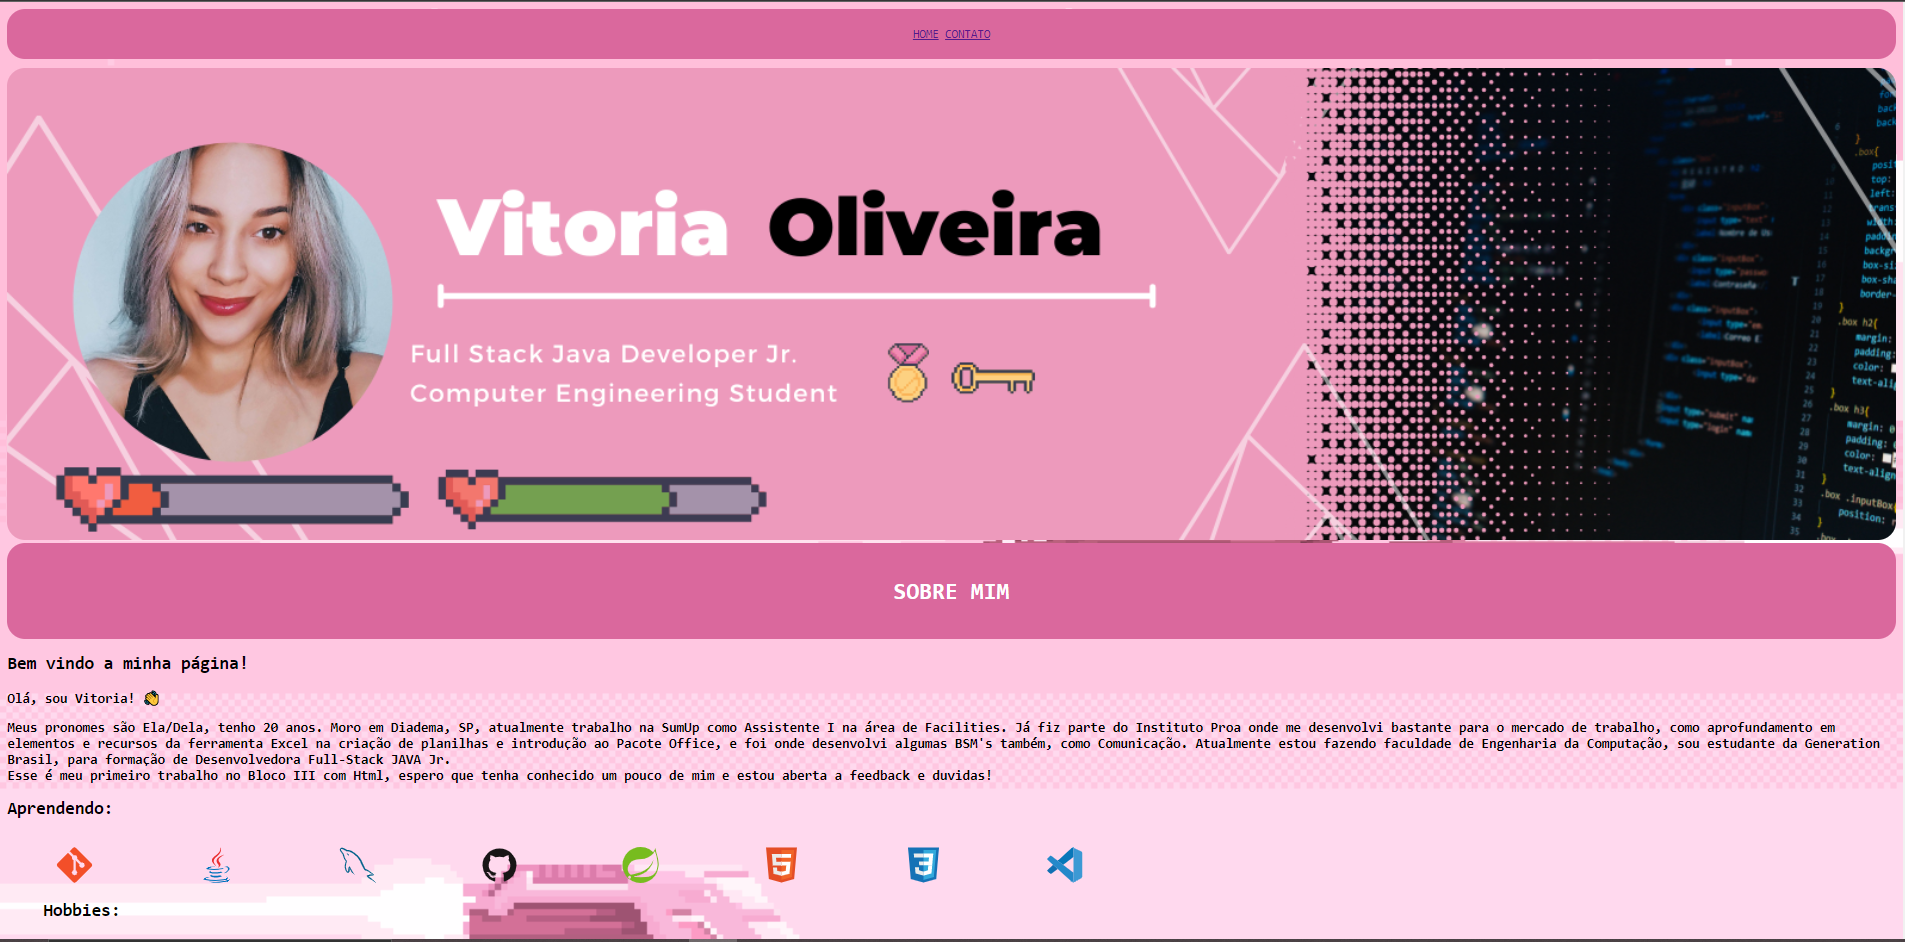
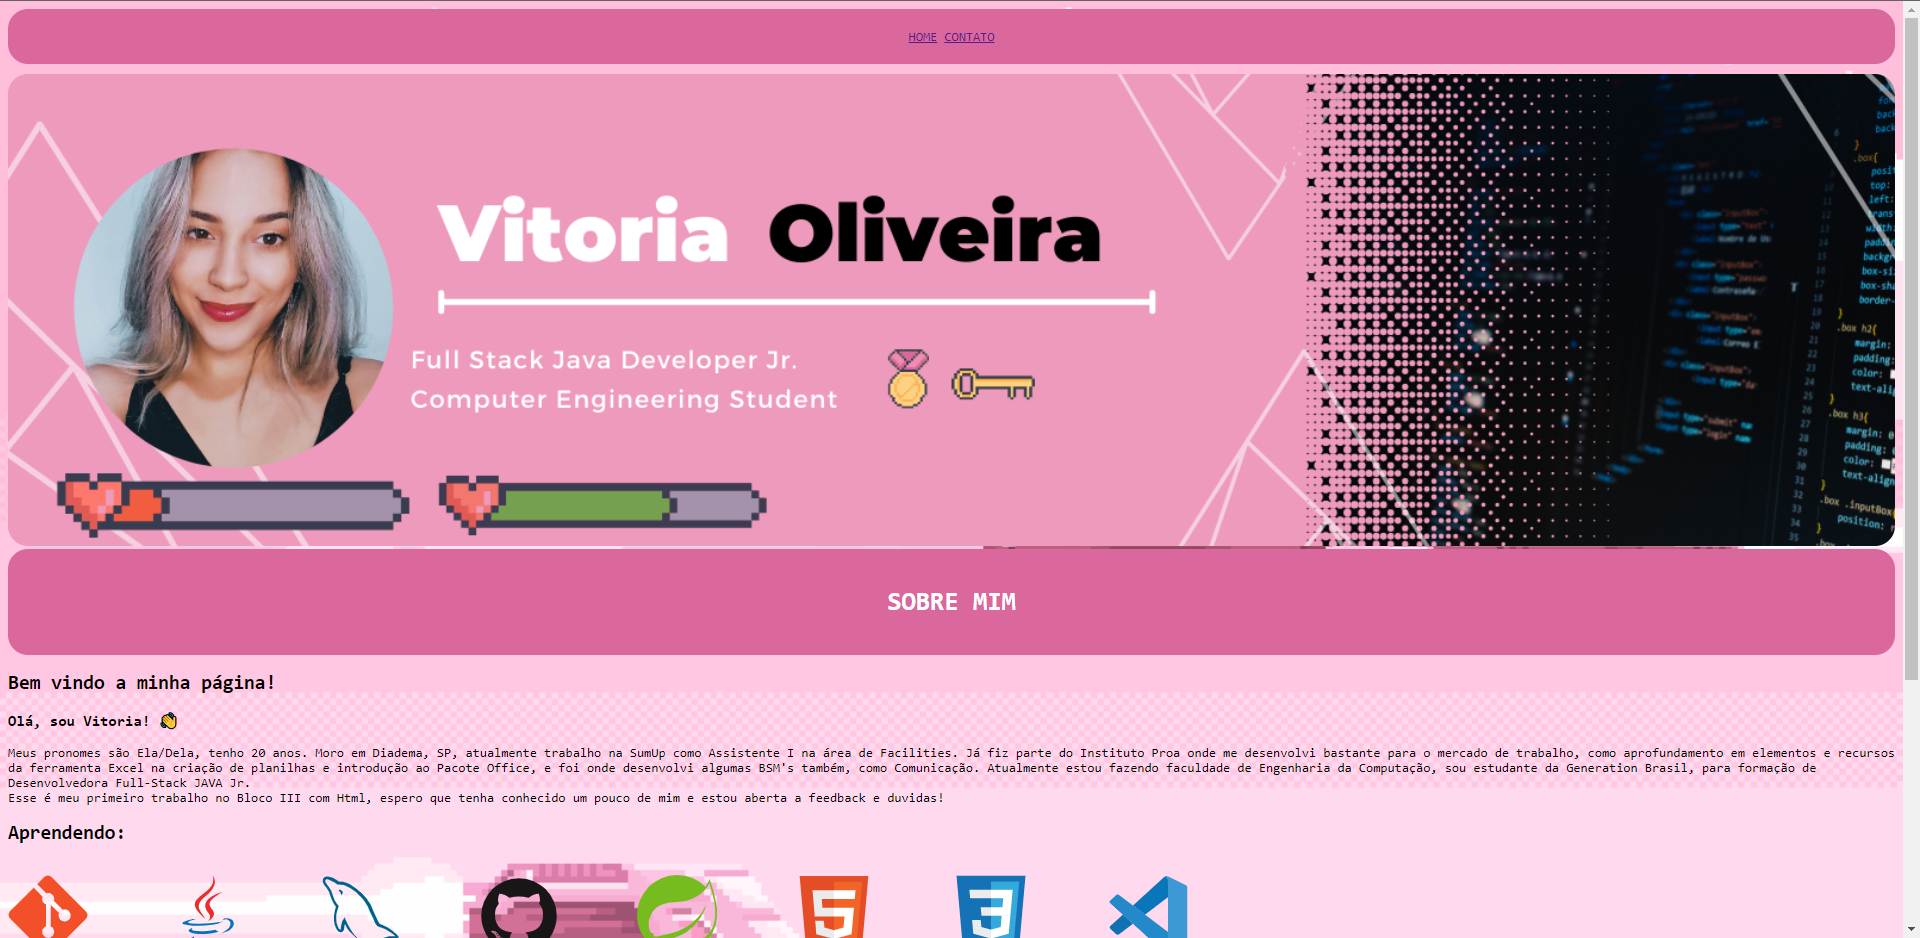
alterando imagem

Changed region(s): [[0.0, 0.0, 1.0, 1.0], [0.4646, 0.6183, 0.5265, 0.6493], [0.0, 0.3092, 0.031, 0.371]]

diff --git a/HTML_CSS_JavaScript/Sobre Vitoria/index.html b/HTML_CSS_JavaScript/Sobre Vitoria/index.html
@@ -13,7 +13,7 @@
         <a href="contato.html">Contato</a>
     </nav>
 
-    <img src="./assets/capa.png" alt="Capa da pagina">
+    <img class = "capa" src="./assets/capa.png" alt="Capa da pagina">
 
     <header>
         <h1>Sobre Mim</h1> 
@@ -21,42 +21,42 @@
 
     <p class = p1>
         <h2>Bem vindo a minha página!</h2>
-        <h3>Olá, sou Vitoria! 👋</h3> <h3> Meus pronomes são Ela/Dela, tenho 20 anos.
+        <h3>Olá, sou Vitoria! 👋</h3> Meus pronomes são Ela/Dela, tenho 20 anos.
         Moro em Diadema, SP, atualmente trabalho na SumUp como Assistente I na área de Facilities. 
         Já fiz parte do Instituto Proa onde me desenvolvi bastante para o mercado de trabalho, como aprofundamento em elementos e recursos da ferramenta Excel na criação de planilhas e introdução ao Pacote Office, e foi onde desenvolvi algumas BSM's também, como Comunicação. 
         Atualmente estou fazendo faculdade de Engenharia da Computação, sou estudante da Generation Brasil, para formação de Desenvolvedora Full-Stack JAVA Jr.
         <br>
-        Esse é meu primeiro trabalho no Bloco III com Html, espero que tenha conhecido um pouco de mim e estou aberta a feedback e duvidas!</h3>
+        Esse é meu primeiro trabalho no Bloco III com Html, espero que tenha conhecido um pouco de mim e estou aberta a feedback e duvidas!
     </p>
     <p><h2>Aprendendo:</h2>
         <br>
         <div class="box">
-        <img src="https://cdn.jsdelivr.net/gh/devicons/devicon/icons/git/git-original.svg" width="40" height="40"/>
+        <img src="https://cdn.jsdelivr.net/gh/devicons/devicon/icons/git/git-original.svg" width="80" height="80"/>
         </div>
         <div class="box">
-            <img src="https://cdn.jsdelivr.net/gh/devicons/devicon/icons/java/java-original.svg" width="40" height="40"/> 
+            <img src="https://cdn.jsdelivr.net/gh/devicons/devicon/icons/java/java-original.svg" width="80" height="80"/> 
         </div>
         </div>
         <div class="box">
-            <img src="https://cdn.jsdelivr.net/gh/devicons/devicon/icons/mysql/mysql-original.svg" width="40" height="40"/> 
+            <img src="https://cdn.jsdelivr.net/gh/devicons/devicon/icons/mysql/mysql-original.svg" width="80" height="80"/> 
         </div>
     </div>
     <div class="box">
-            <img src="https://cdn.jsdelivr.net/gh/devicons/devicon/icons/github/github-original.svg" width="40" height="40"/> 
+            <img src="https://cdn.jsdelivr.net/gh/devicons/devicon/icons/github/github-original.svg" width="80" height="80"/> 
             </div>
         </div>
         <div class="box">
-            <img src="https://cdn.jsdelivr.net/gh/devicons/devicon/icons/spring/spring-original.svg" width="40" height="40"/> 
+            <img src="https://cdn.jsdelivr.net/gh/devicons/devicon/icons/spring/spring-original.svg" width="80" height="80"/> 
             </div>
         </div>
         <div class="box">
-            <img src="https://cdn.jsdelivr.net/gh/devicons/devicon/icons/html5/html5-original.svg" width="40" height="40"/> 
+            <img src="https://cdn.jsdelivr.net/gh/devicons/devicon/icons/html5/html5-original.svg" width="80" height="80"/> 
         </div>
         <div class="box">
-            <img src="https://cdn.jsdelivr.net/gh/devicons/devicon/icons/css3/css3-original.svg" width="40" height="40"/>
+            <img src="https://cdn.jsdelivr.net/gh/devicons/devicon/icons/css3/css3-original.svg" width="80" height="80"/>
             </div>
             <div class="box">
-                <img src="https://cdn.jsdelivr.net/gh/devicons/devicon/icons/vscode/vscode-original.svg" width="40" height="40"/> 
+                <img src="https://cdn.jsdelivr.net/gh/devicons/devicon/icons/vscode/vscode-original.svg" width="80" height="80"/> 
             </div>
             <style>
                 div.box {
@@ -66,35 +66,34 @@
                 </style>
     </p>
 
-    <div class = "caixa">
-        <p><ul>
-            <h2>Hobbies:</h2><br>
-            <h3><li>Filmes</li>
+    <div>
+        <h2>Hobbies:</h2>
+        <ul class="hobbies">
+            <li><h3>Filmes</h3>
                 <div class="box">
-                    <img src="./assets/icons8-stormtrooper-100.png" width="40"/>
-                    </div>
-            <li>Desenhos</li>
+                    <img src="./assets/icons8-stormtrooper-100.png" width="80"/>
+                    </div></li>
+            <li><h3>Desenhos</h3>
             <div class="box">
-                <img src="./assets/icons8-rick-sanchez-100.png" width="40"/>
-                </div>
-            <li>Series</li>
+                <img src="./assets/icons8-rick-sanchez-100.png" width="80"/>
+                </div></li>
+            <li><h3>Series</h3>
             <div class="box">
-                <img src="./assets/icons8-walter-white-100.png" width="40"/>
-                </div>
-            <li>Jogos </li>
+                <img src="./assets/icons8-walter-white-100.png" width="80"/>
+                </div></li>
+            <li><h3>Jogos </h3>
             <div class="box">
-                <img src="./assets/icons8-super-mario-48.png" width="40"/>
-                </div>
-            <li>Pintura</li>
+                <img src="./assets/icons8-super-mario-48.png" width="80"/>
+                </div></li>
+            <li><h3>Pintura</h3>
             <div class="box">
-                <img src="./assets/icons8-van-gogh-48.png" width="40"/>
-                </div>
-            <li>Musica</li></h3>
+                <img src="./assets/icons8-van-gogh-48.png" width="80"/>
+                </div></li>
+            <li><h3>Musica</h3>
             <div class="box">
-                <img src="./assets/icons8-music-heart-64.png" width="40"/>
-                </div>
+                <img src="./assets/icons8-music-heart-64.png" width="80"/>
+                </div></li>
         </ul>
-        </p>
     </div>
 
     <script src="./assets/scripts/script.js"></script>

diff --git a/HTML_CSS_JavaScript/Sobre Vitoria/style.css b/HTML_CSS_JavaScript/Sobre Vitoria/style.css
@@ -37,20 +37,26 @@ nav{
     border-radius: 20px;
     text-decoration: none; 
 }
-
+.p1{
+    font-size: large;
+}
 button{
     border-radius: 20px;
 }
 
 /* imagem*/
-img{
+.capa{
     width: 100%;
     border-radius: 20px;
 }
 
-li{
-    display: inline
+.hobbies li{
+    display: inline-block;
+    text-align: center;
+    vertical-align: top;
+    box-sizing: border-box;
     }
+    
 
 /*Rodapé*/
 footer{
@@ -61,5 +67,6 @@ footer{
     background-color: #da689d;
     border-radius: 20px;
 
-    padding: 20 px;
+    padding: 50 px;
+    margin: 50px 0 0 0 ;
 }

diff --git a/HTML_CSS_JavaScript/Sobre Vitoria/style-contato.css b/HTML_CSS_JavaScript/Sobre Vitoria/style-contato.css
@@ -48,3 +48,16 @@ textarea{
     border-radius: 20px;
     background-color: #ffffff;
 }
+
+/*rodapé*/
+footer{
+    text-align: center;
+    font-size: 15px;
+    color:rgb(255, 255, 255);
+    text-transform: uppercase;
+    background-color: #da689d;
+    border-radius: 20px;
+
+    padding: 50 px;
+    margin: 50px 0 0 0 ;
+}

diff --git a/HTML_CSS_JavaScript/Sobre Vitoria/assets/scripts/script.js b/HTML_CSS_JavaScript/Sobre Vitoria/assets/scripts/script.js
@@ -12,6 +12,6 @@ function clique(){
 let nome = window.document.getElementById("nome")
 let email = document.getElementById("email")//podemos omitir o window
 let assunto = document.getElementById("assunto")
-
+let data = document.getElementById("data")
 
     
